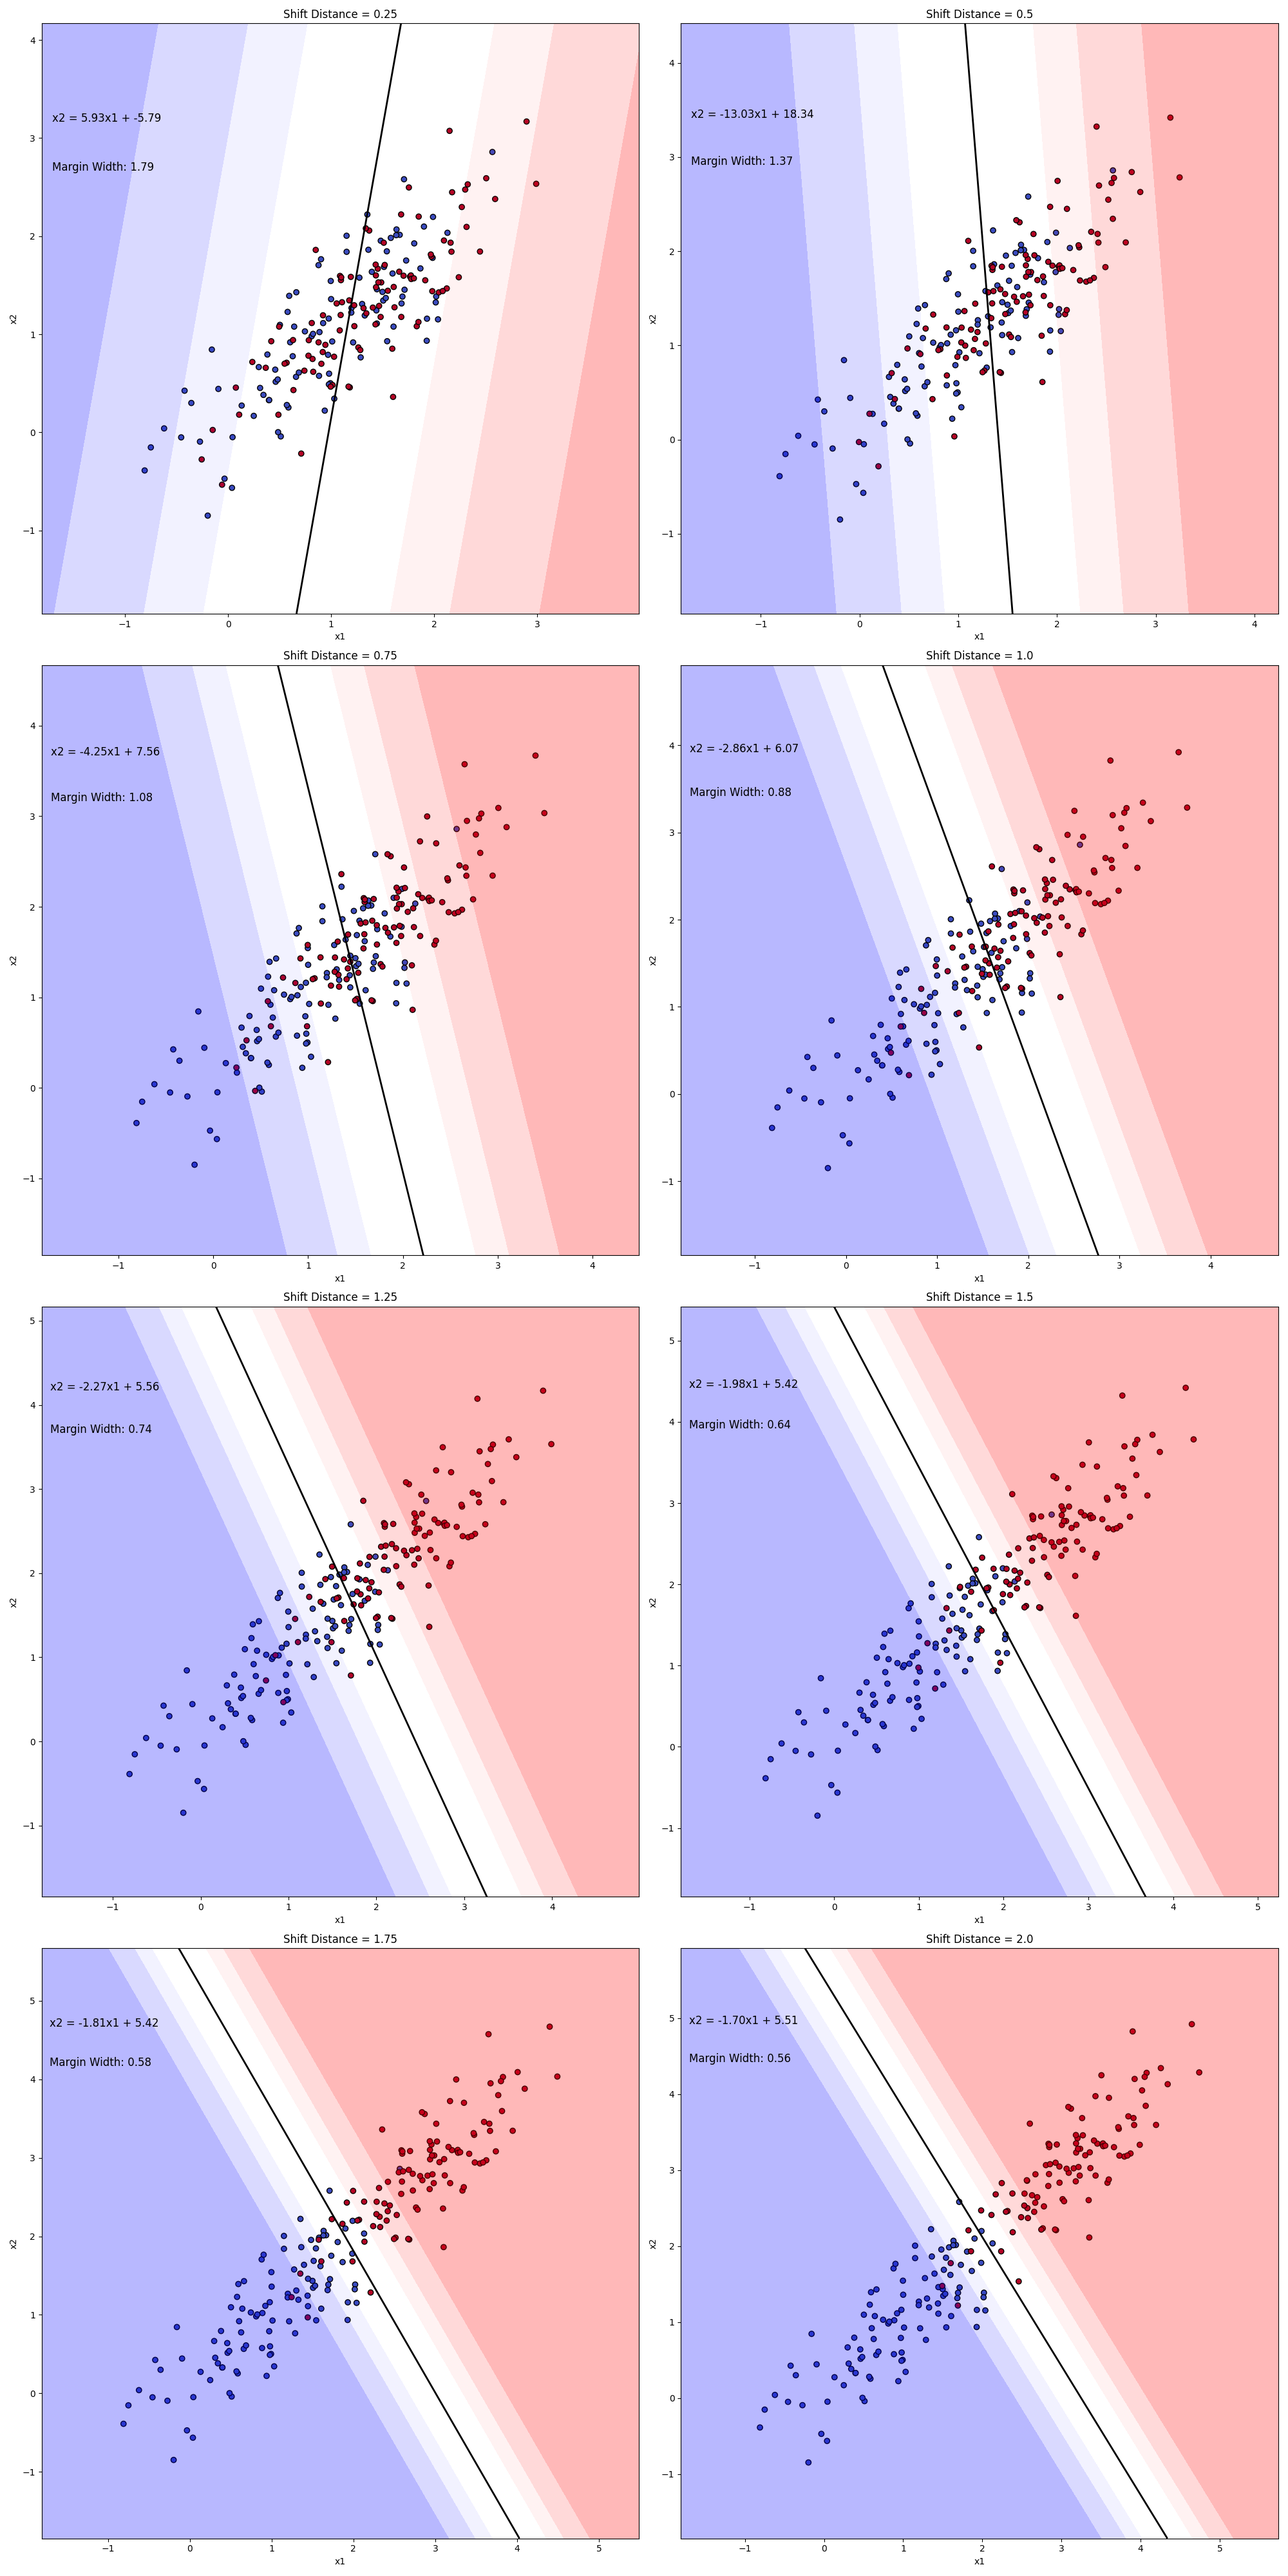
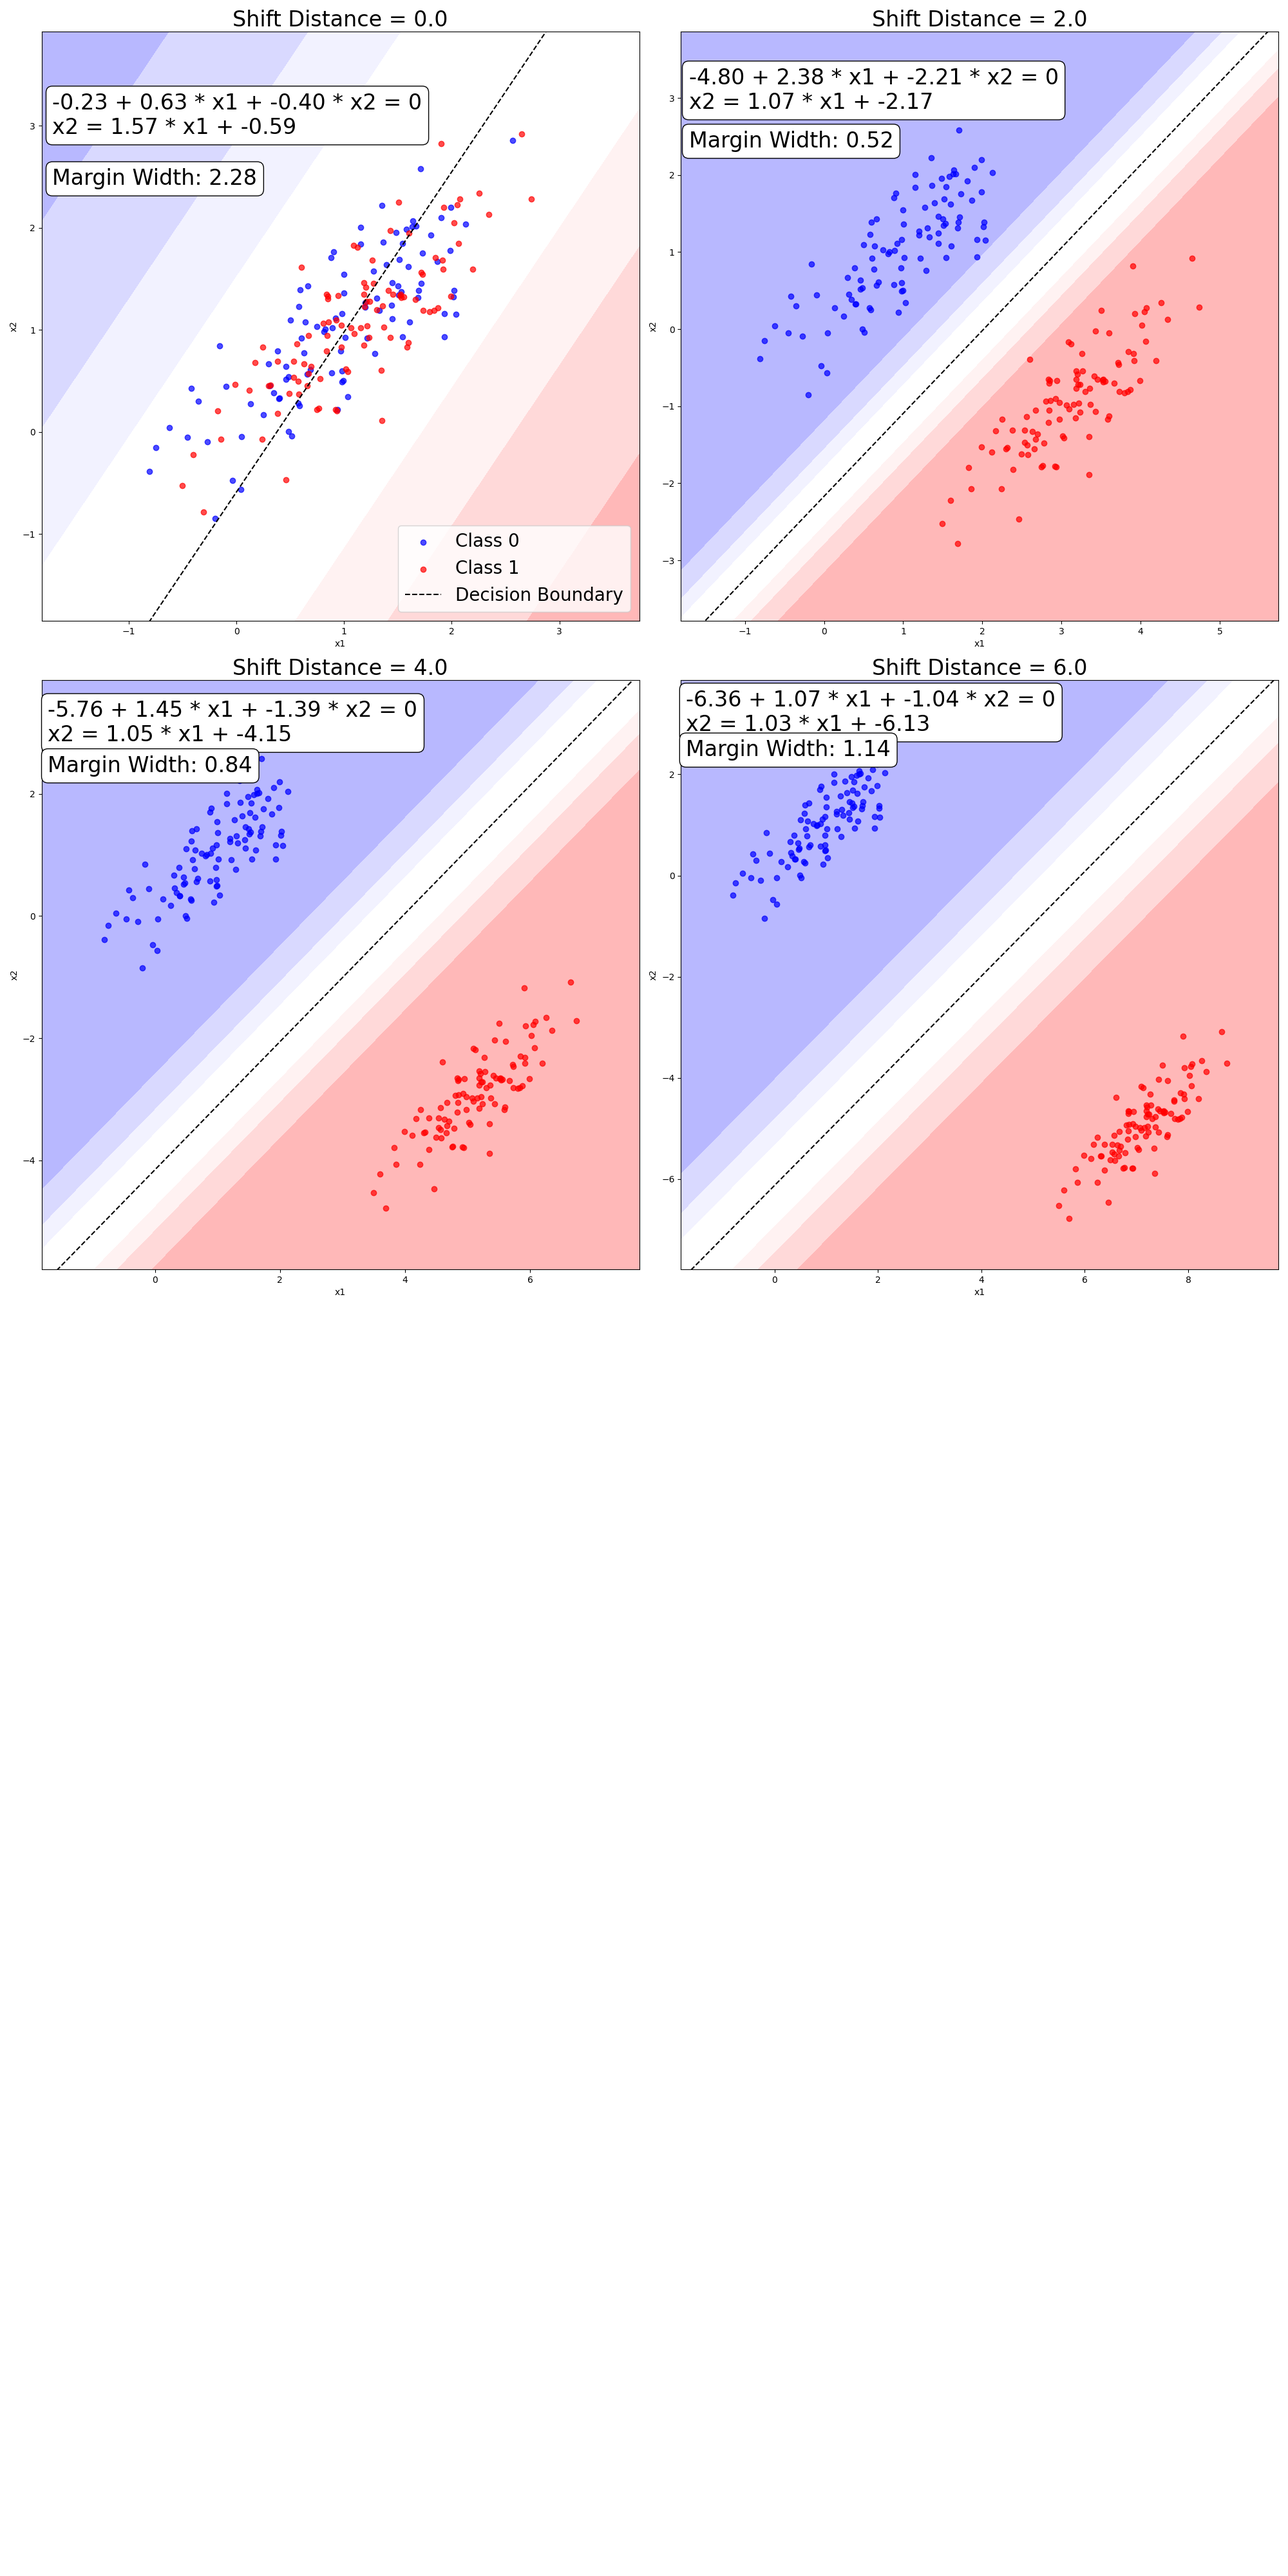
updated

diff --git a/logistic_regression.py b/logistic_regression.py
@@ -1,9 +1,10 @@
+import matplotlib
+matplotlib.use('Agg')
 import numpy as np
 import matplotlib.pyplot as plt
 from sklearn.linear_model import LogisticRegression
 from scipy.spatial.distance import cdist
 import os
-from sklearn.metrics import log_loss
 
 result_dir = "results"
 os.makedirs(result_dir, exist_ok=True)
@@ -13,14 +14,19 @@ def generate_ellipsoid_clusters(distance, n_samples=100, cluster_std=0.5):
     covariance_matrix = np.array([[cluster_std, cluster_std * 0.8], 
                                   [cluster_std * 0.8, cluster_std]])
     
+    # Generate the first cluster (class 0)
     X1 = np.random.multivariate_normal(mean=[1, 1], cov=covariance_matrix, size=n_samples)
     y1 = np.zeros(n_samples)
 
+    # Generate the second cluster (class 1)
     X2 = np.random.multivariate_normal(mean=[1, 1], cov=covariance_matrix, size=n_samples)
-    X2[:, 0] += distance  # Shift along x-axis
-    X2[:, 1] += distance  # Shift along y-axis
+    
+    # Implement: Shift the second cluster along the x-axis and y-axis for a given distance
+    # raise NotImplementedError("Implement the shift of the second cluster")
+    X2 += np.array([distance, -1*distance])
     y2 = np.ones(n_samples)
 
+    # Combine the clusters into one dataset
     X = np.vstack((X1, X2))
     y = np.hstack((y1, y2))
     return X, y
@@ -34,15 +40,17 @@ def fit_logistic_regression(X, y):
     return model, beta0, beta1, beta2
 
 def do_experiments(start, end, step_num):
-    shift_distances = np.linspace(start, end, step_num)
+    # Set up experiment parameters
+    shift_distances = np.linspace(start, end, step_num)  # Range of shift distances
     beta0_list, beta1_list, beta2_list, slope_list, intercept_list, loss_list, margin_widths = [], [], [], [], [], [], []
-    sample_data = {}
+    sample_data = {}  # Store sample datasets and models for visualization
 
     n_samples = 8
-    n_cols = 2
-    n_rows = (n_samples + n_cols - 1) // n_cols
-    plt.figure(figsize=(20, n_rows * 10))
+    n_cols = 2  # Fixed number of columns
+    n_rows = (n_samples + n_cols - 1) // n_cols  # Calculate rows needed
+    plt.figure(figsize=(20, n_rows * 10))  # Adjust figure height based on rows
 
+    # Run experiments for each shift distance
     for i, distance in enumerate(shift_distances, 1):
         X, y = generate_ellipsoid_clusters(distance=distance)
         model, beta0, beta1, beta2 = fit_logistic_regression(X, y)
@@ -50,40 +58,61 @@ def do_experiments(start, end, step_num):
         beta1_list.append(beta1)
         beta2_list.append(beta2)
 
-        slope = -beta1 / beta2
-        intercept = -beta0 / beta2
-        slope_list.append(slope)
-        intercept_list.append(intercept)
-
-        loss = log_loss(y, model.predict_proba(X))
+        # Implement: Plot the dataset
+        plt.subplot(n_rows, n_cols, i)
+        # raise NotImplementedError("Plot the dataset")
+        plt.scatter(X[y == 0][:, 0], X[y == 0][:, 1], color='blue', label='Class 0', alpha=0.7)
+        plt.scatter(X[y == 1][:, 0], X[y == 1][:, 1], color='red', label='Class 1', alpha=0.7)
+ 
+        loss = -model.score(X, y)  
         loss_list.append(loss)
 
+        # Calculate margin width between 70% confidence contours for each class
         x_min, x_max = X[:, 0].min() - 1, X[:, 0].max() + 1
         y_min, y_max = X[:, 1].min() - 1, X[:, 1].max() + 1
         xx, yy = np.meshgrid(np.linspace(x_min, x_max, 200), np.linspace(y_min, y_max, 200))
-        Z = model.predict_proba(np.c_[xx.ravel(), yy.ravel()])[:, 1].reshape(xx.shape)
+        Z = model.predict_proba(np.c_[xx.ravel(), yy.ravel()])[:, 1]
+        Z = Z.reshape(xx.shape)
 
-        plt.subplot(n_rows, n_cols, i)
-        plt.scatter(X[:, 0], X[:, 1], c=y, cmap='coolwarm', edgecolor='k')
-        plt.contour(xx, yy, Z, levels=[0.5], colors='black', linewidths=2)
+        slope = -beta1 / beta2  # Decision boundary slope
+        slope_list.append(slope)
+        intercept = -beta0 / beta2  # Decision boundary intercept
+        intercept_list.append(intercept)
 
+        x_values = np.linspace(x_min, x_max, 200)
+        y_values = slope * x_values + intercept
+        plt.plot(x_values, y_values, color='black', linestyle='--', label='Decision Boundary')
+
+        # Plot fading red and blue contours for confidence levels
         contour_levels = [0.7, 0.8, 0.9]
-        alphas = [0.05, 0.1, 0.15]
+        alphas = [0.05, 0.1, 0.15]  # Increasing opacity for higher confidence levels
         for level, alpha in zip(contour_levels, alphas):
-            class_1_contour = plt.contourf(xx, yy, Z, levels=[level, 1.0], colors=['red'], alpha=alpha)
-            class_0_contour = plt.contourf(xx, yy, Z, levels=[0.0, 1 - level], colors=['blue'], alpha=alpha)
+            class_1_contour = plt.contourf(xx, yy, Z, levels=[level, 1.0], colors=['red'], alpha=alpha)  # Fading red for Class 1
+            class_0_contour = plt.contourf(xx, yy, Z, levels=[0.0, 1 - level], colors=['blue'], alpha=alpha)  # Fading blue for Class 0
             if level == 0.7:
-                distances = cdist(class_1_contour.collections[0].get_paths()[0].vertices, class_0_contour.collections[0].get_paths()[0].vertices)
-                margin_widths.append(np.min(distances))
+                distances = cdist(class_1_contour.collections[0].get_paths()[0].vertices, class_0_contour.collections[0].get_paths()[0].vertices, metric='euclidean')
+                min_distance = np.min(distances)
+                margin_widths.append(min_distance)
 
-        plt.title(f"Shift Distance = {distance}")
+        plt.xlim(x_min, x_max)
+        plt.ylim(y_min, y_max)
+
+        plt.title(f"Shift Distance = {distance}", fontsize=24)
         plt.xlabel("x1")
         plt.ylabel("x2")
-        plt.text(x_min + 0.1, y_max - 1.0, f"x2 = {slope:.2f}x1 + {intercept:.2f}", fontsize=12)
-        plt.text(x_min + 0.1, y_max - 1.5, f"Margin Width: {margin_widths[-1]:.2f}", fontsize=12)
 
-    plt.tight_layout()
-    plt.savefig(f"{result_dir}/dataset.png")
+        # Display decision boundary equation and margin width on the plot
+        equation_text = f"{beta0:.2f} + {beta1:.2f} * x1 + {beta2:.2f} * x2 = 0\nx2 = {slope:.2f} * x1 + {intercept:.2f}"
+        margin_text = f"Margin Width: {min_distance:.2f}"
+        plt.text(x_min + 0.1, y_max - 1.0, equation_text, fontsize=24, color="black", ha='left',
+                bbox=dict(facecolor='white', edgecolor='black', boxstyle='round,pad=0.3'))
+        plt.text(x_min + 0.1, y_max - 1.5, margin_text, fontsize=24, color="black", ha='left',
+                bbox=dict(facecolor='white', edgecolor='black', boxstyle='round,pad=0.3'))
+
+        if i == 1:
+            plt.legend(loc='lower right', fontsize=20)
+
+        sample_data[distance] = (X, y, model, beta0, beta1, beta2, min_distance)
 
     plt.tight_layout()
     plt.savefig(f"{result_dir}/dataset.png")
@@ -93,43 +122,49 @@ def do_experiments(start, end, step_num):
 
     # Implement: Plot beta0
     plt.subplot(3, 3, 1)
+    plt.plot(shift_distances, beta0_list, marker='o')
     plt.title("Shift Distance vs Beta0")
     plt.xlabel("Shift Distance")
     plt.ylabel("Beta0")
 
     # Implement: Plot beta1
     plt.subplot(3, 3, 2)
+    plt.plot(shift_distances, beta1_list, marker='o')
     plt.title("Shift Distance vs Beta1 (Coefficient for x1)")
     plt.xlabel("Shift Distance")
     plt.ylabel("Beta1")
 
     # Implement: Plot beta2
     plt.subplot(3, 3, 3)
+    plt.plot(shift_distances, beta2_list, marker='o')
     plt.title("Shift Distance vs Beta2 (Coefficient for x2)")
     plt.xlabel("Shift Distance")
     plt.ylabel("Beta2")
 
     # Implement: Plot beta1 / beta2 (Slope)
     plt.subplot(3, 3, 4)
+    plt.plot(shift_distances, slope_list, marker='o')
     plt.title("Shift Distance vs Beta1 / Beta2 (Slope)")
     plt.xlabel("Shift Distance")
     plt.ylabel("Beta1 / Beta2")
-    plt.ylim(-2, 0)
 
     # Implement: Plot beta0 / beta2 (Intercept ratio)
     plt.subplot(3, 3, 5)
+    plt.plot(shift_distances, intercept_list, marker='o')
     plt.title("Shift Distance vs Beta0 / Beta2 (Intercept Ratio)")
     plt.xlabel("Shift Distance")
     plt.ylabel("Beta0 / Beta2")
 
     # Plot logistic loss
     plt.subplot(3, 3, 6)
+    plt.plot(shift_distances, loss_list, marker='o')
     plt.title("Shift Distance vs Logistic Loss")
     plt.xlabel("Shift Distance")
     plt.ylabel("Logistic Loss")
 
     # Implement: Plot margin width
     plt.subplot(3, 3, 7)
+    plt.plot(shift_distances, margin_widths, marker='o')
     plt.title("Shift Distance vs Margin Width")
     plt.xlabel("Shift Distance")
     plt.ylabel("Margin Width")
